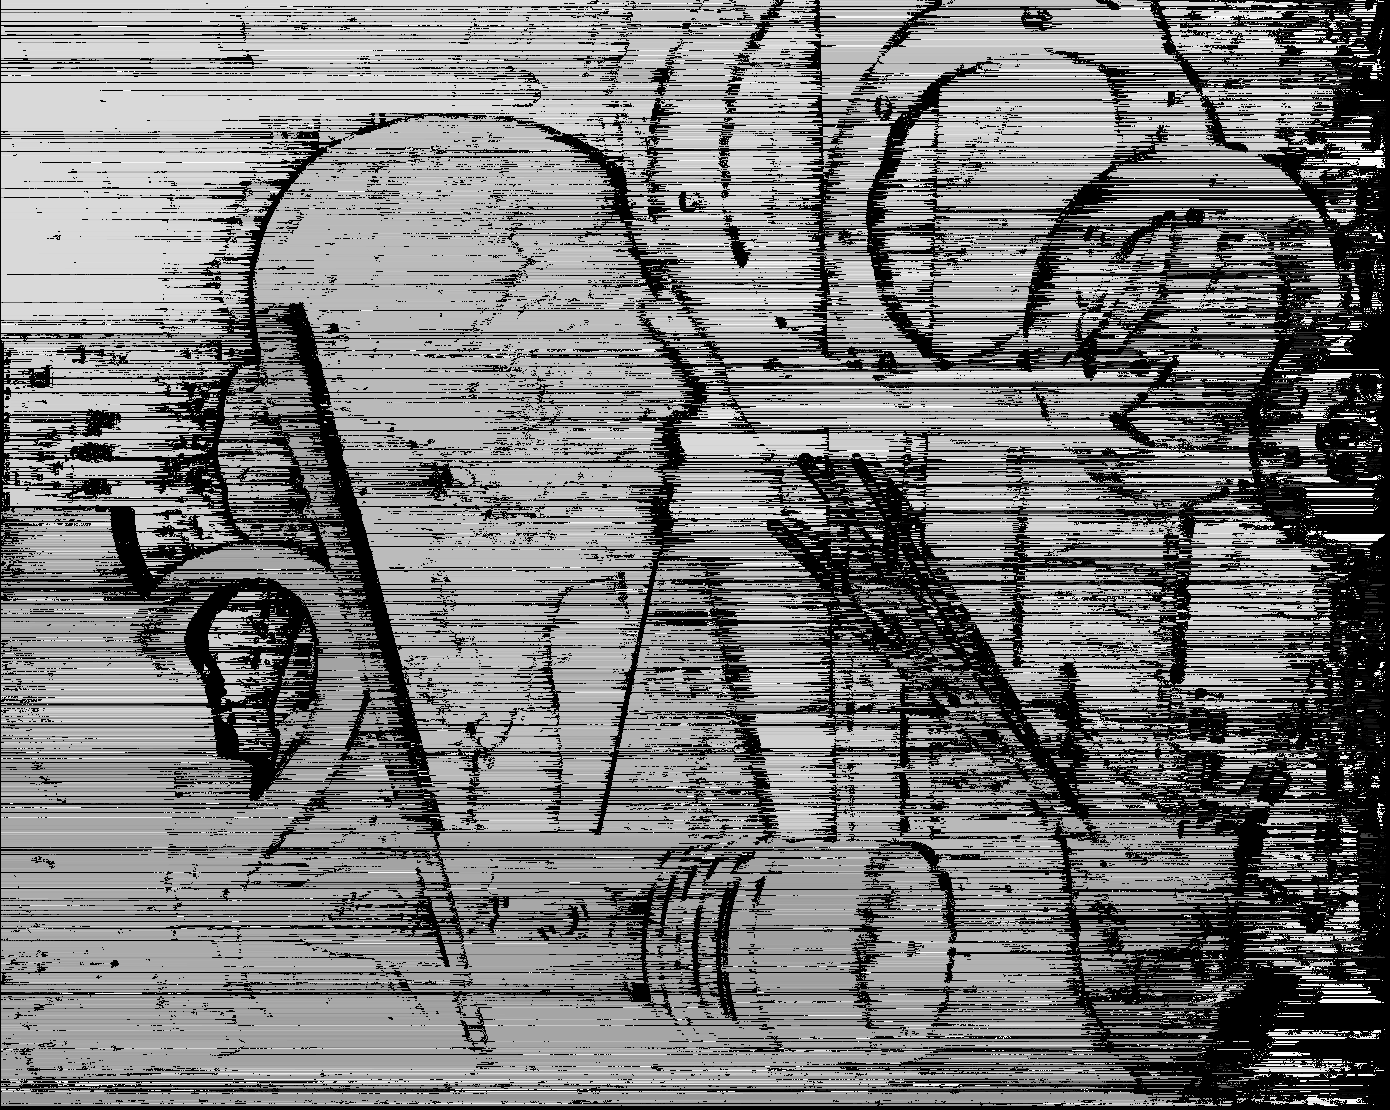
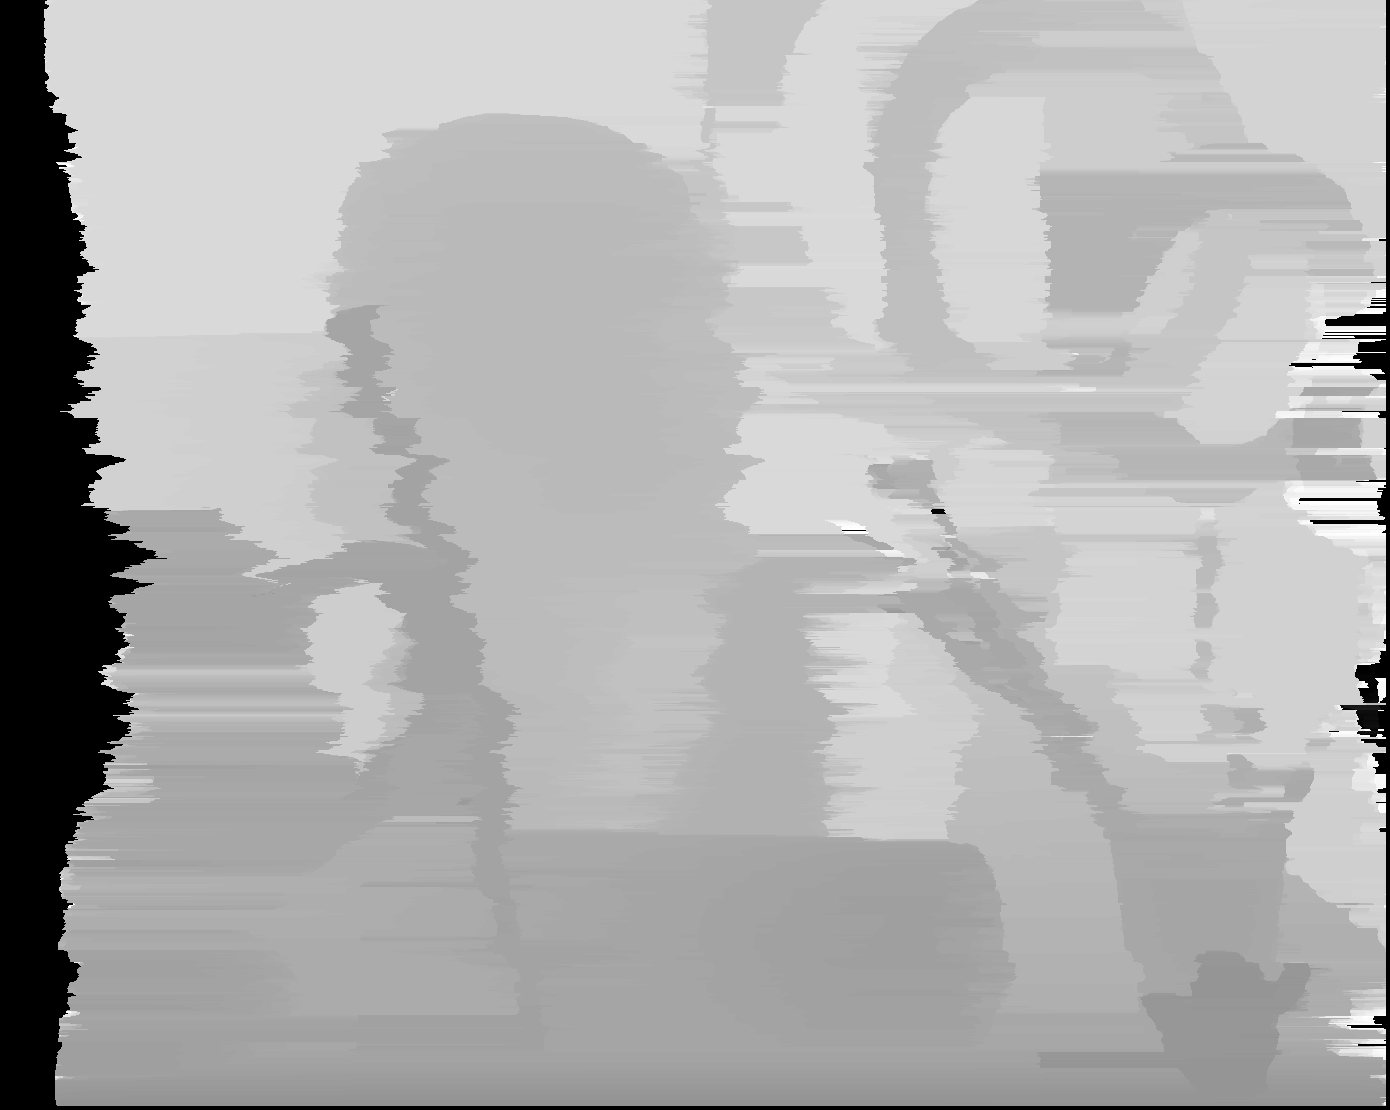
fix

diff --git a/src/main.cpp b/src/main.cpp
@@ -122,23 +122,27 @@ void StereoEstimation_DP(
     int height,
     int width,
     int lambda,
-    cv::Mat& image1, cv::Mat& image2, cv::Mat& dp_disparities, const double& scale, const int& dmin){
+    cv::Mat& image1, cv::Mat& image2, cv::Mat& dp_disparities, const double& scale, const int& dmin) {
 
     int half_window_size = window_size / 2;
     for (int sor = half_window_size; sor < height - half_window_size; ++sor)
     {
-        cv::Mat C = cv::Mat::zeros(width, width, CV_8UC1);
+        cv::Mat C = cv::Mat::zeros(width, width, CV_32F);
         cv::Mat M = cv::Mat::ones(width, width, CV_8UC1);
         std::cout
             << "Calculating disparities for the DP approach...  "
             << std::ceil(((sor - half_window_size + 1) / static_cast<double>(height - window_size + 1)) * 100) << "%\r"
             << std::flush;
+
+        C.at<float>(0, 0) = lambda;
+        M.at<uchar>(0, 0) = 3;
+
         #pragma omp parallel for
         for (int i = half_window_size + 1; i < width - half_window_size; ++i) {
-            C.at<uchar>(i - half_window_size, 1) = C.at<uchar>(i - half_window_size - 1, 1) + lambda; // maybe i*occlusion?
-            M.at<uchar>(i - half_window_size, 1) = 2; // left occlusion
-            C.at<uchar>(1, i - half_window_size) += C.at<uchar>(1, i - half_window_size - 1) + lambda;
-            M.at<uchar>(1, i - half_window_size) = 3; // right occlusion
+            C.at<float>(i - half_window_size, 0) = C.at<float>(i - half_window_size - 1, 0) + lambda; // maybe i*occlusion?
+            M.at<uchar>(i - half_window_size, 0) = 2; // left occlusion
+            C.at<float>(0, i - half_window_size) += C.at<float>(0, i - half_window_size - 1) + lambda;
+            M.at<uchar>(0, i - half_window_size) = 3; // right occlusion
         }
         #pragma omp parallel for
         for (int i = half_window_size + 1; i < width - half_window_size; ++i) {
@@ -154,11 +158,11 @@ void StereoEstimation_DP(
                         val += (val_left - val_right) * (val_left - val_right);
                     }
                 }
-                int min1 = C.at<uchar>(i - half_window_size - 1, j - half_window_size - 1) + val;
-                int min2 = C.at<uchar>(i - half_window_size - 1, j - half_window_size) + lambda; // left occlusion
-                int min3 = C.at<uchar>(i - half_window_size, j - half_window_size - 1) + lambda; // right occlusion
+                int min1 = C.at<float>(i - half_window_size - 1, j - half_window_size - 1) + val;
+                int min2 = C.at<float>(i - half_window_size - 1, j - half_window_size) + lambda; // left occlusion
+                int min3 = C.at<float>(i - half_window_size, j - half_window_size - 1) + lambda; // right occlusion
                 int min = std::min({ min1, min2, min3 });
-                C.at<uchar>(i - half_window_size, j - half_window_size) = min; // Update the cost matrix
+                C.at<float>(i - half_window_size, j - half_window_size) = min; // Update the cost matrix
 
                 if (min == min1) M.at<uchar>(i - half_window_size, j - half_window_size) = 1;
                 else if (min == min2) M.at<uchar>(i - half_window_size, j - half_window_size) = 2;  // left occlusion
@@ -169,15 +173,17 @@ void StereoEstimation_DP(
 
         int index_i = width - half_window_size - 1;
         int index_j = width - half_window_size - 1;
+        int k = width - half_window_size - 1;
         while (index_i > half_window_size && index_j > half_window_size) {
             if (M.at<uchar>(index_i - half_window_size, index_j - half_window_size) == 1) {
-                // dp_disparities.at<uchar>(sor, index_j) = (index_j - index_i) * scale;
-                dp_disparities.at<uchar>(sor - half_window_size, index_j - half_window_size) = (index_j - index_i) * 255 / dmin;
+
+                dp_disparities.at<uchar>(sor - half_window_size, k - half_window_size) = (index_j - index_i) * 255 / dmin;
                 index_i--;
                 index_j--;
+                k--;
             }
             if (M.at<uchar>(index_i - half_window_size, index_j - half_window_size) == 2) {
-                dp_disparities.at<uchar>(sor - half_window_size, index_j - half_window_size) = 0;
+                // dp_disparities.at<uchar>(sor - half_window_size, index_j - half_window_size) = 0;
                 index_i--;  // left occlusion
             }
             if (M.at<uchar>(index_i - half_window_size, index_j - half_window_size) == 3) {
@@ -202,7 +208,7 @@ void StereoEstimation_Naive(
             << "Calculating disparities for the naive approach... "
             << std::ceil(((i - half_window_size + 1) / static_cast<double>(height - window_size + 1)) * 100) << "%\r"
             << std::flush;
-        #pragma omp parallel for
+#pragma omp parallel for
         for (int j = half_window_size; j < width - half_window_size; ++j) {
             int min_ssd = INT_MAX;
             int disparity = 0;
@@ -261,4 +267,3 @@ void Disparity2PointCloud(
     std::cout << "Reconstructing 3D point cloud from disparities... Done.\r" << std::flush;
     std::cout << std::endl;
 }
- 
